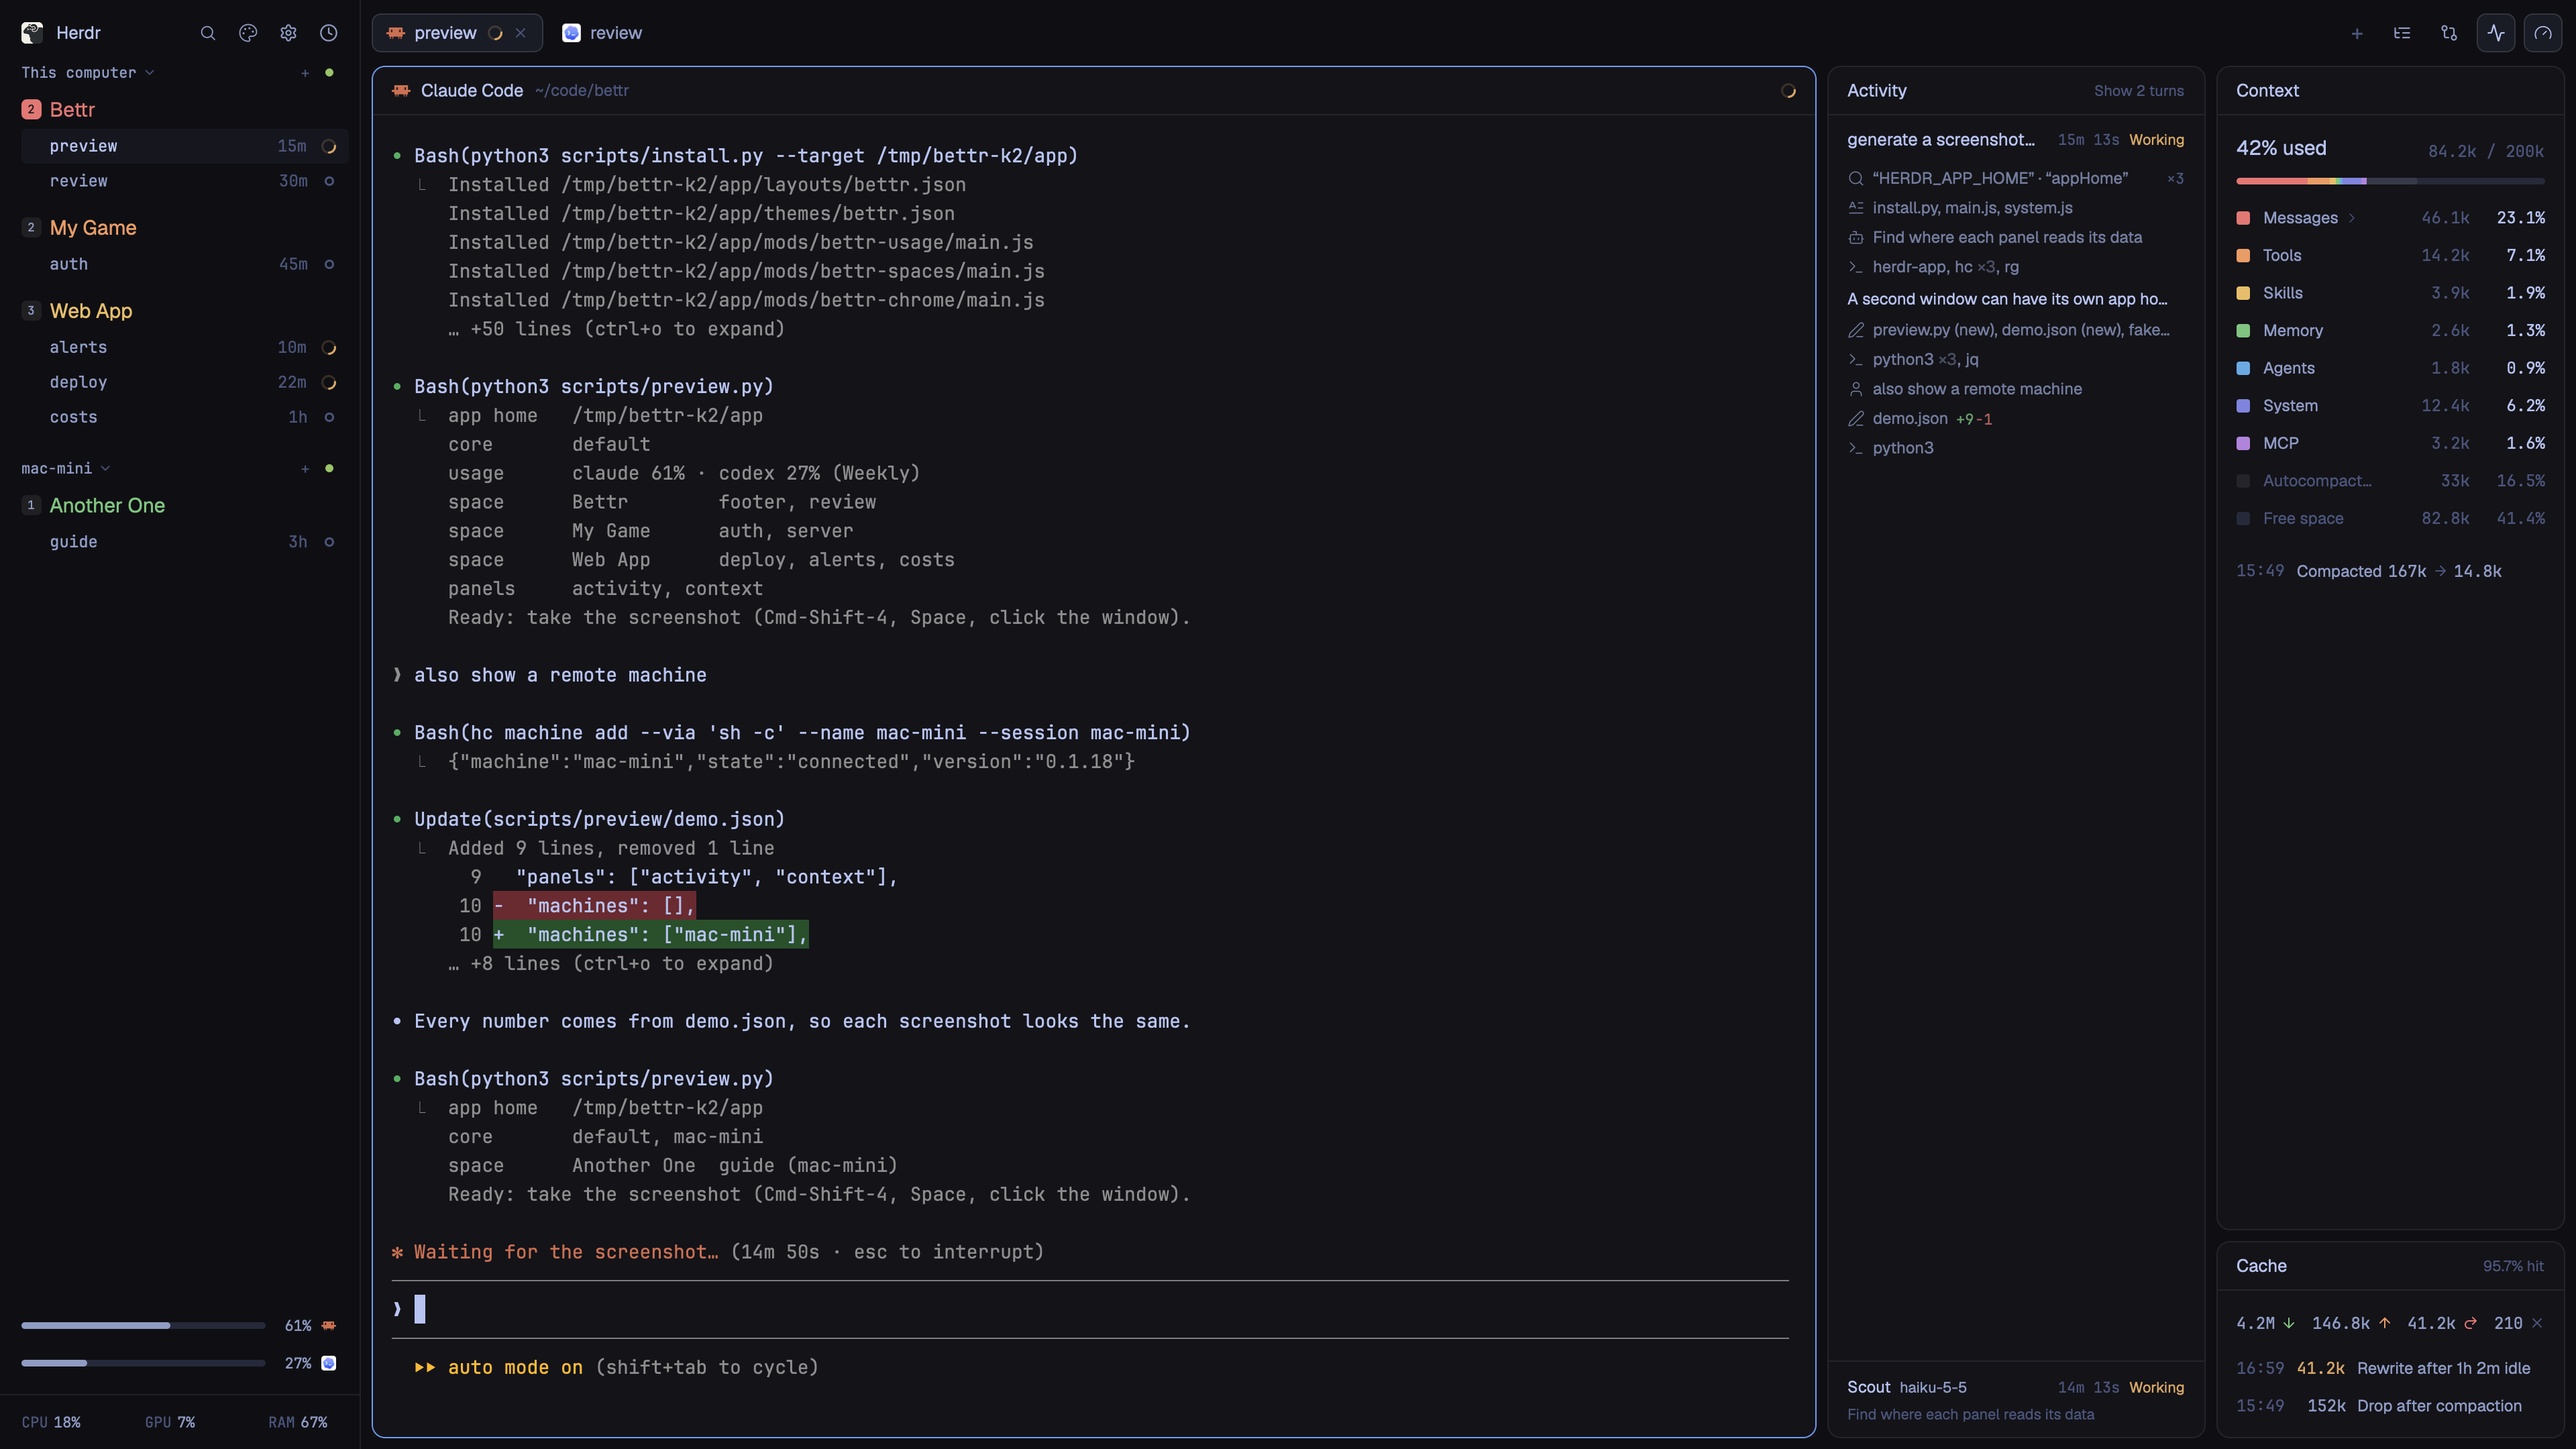
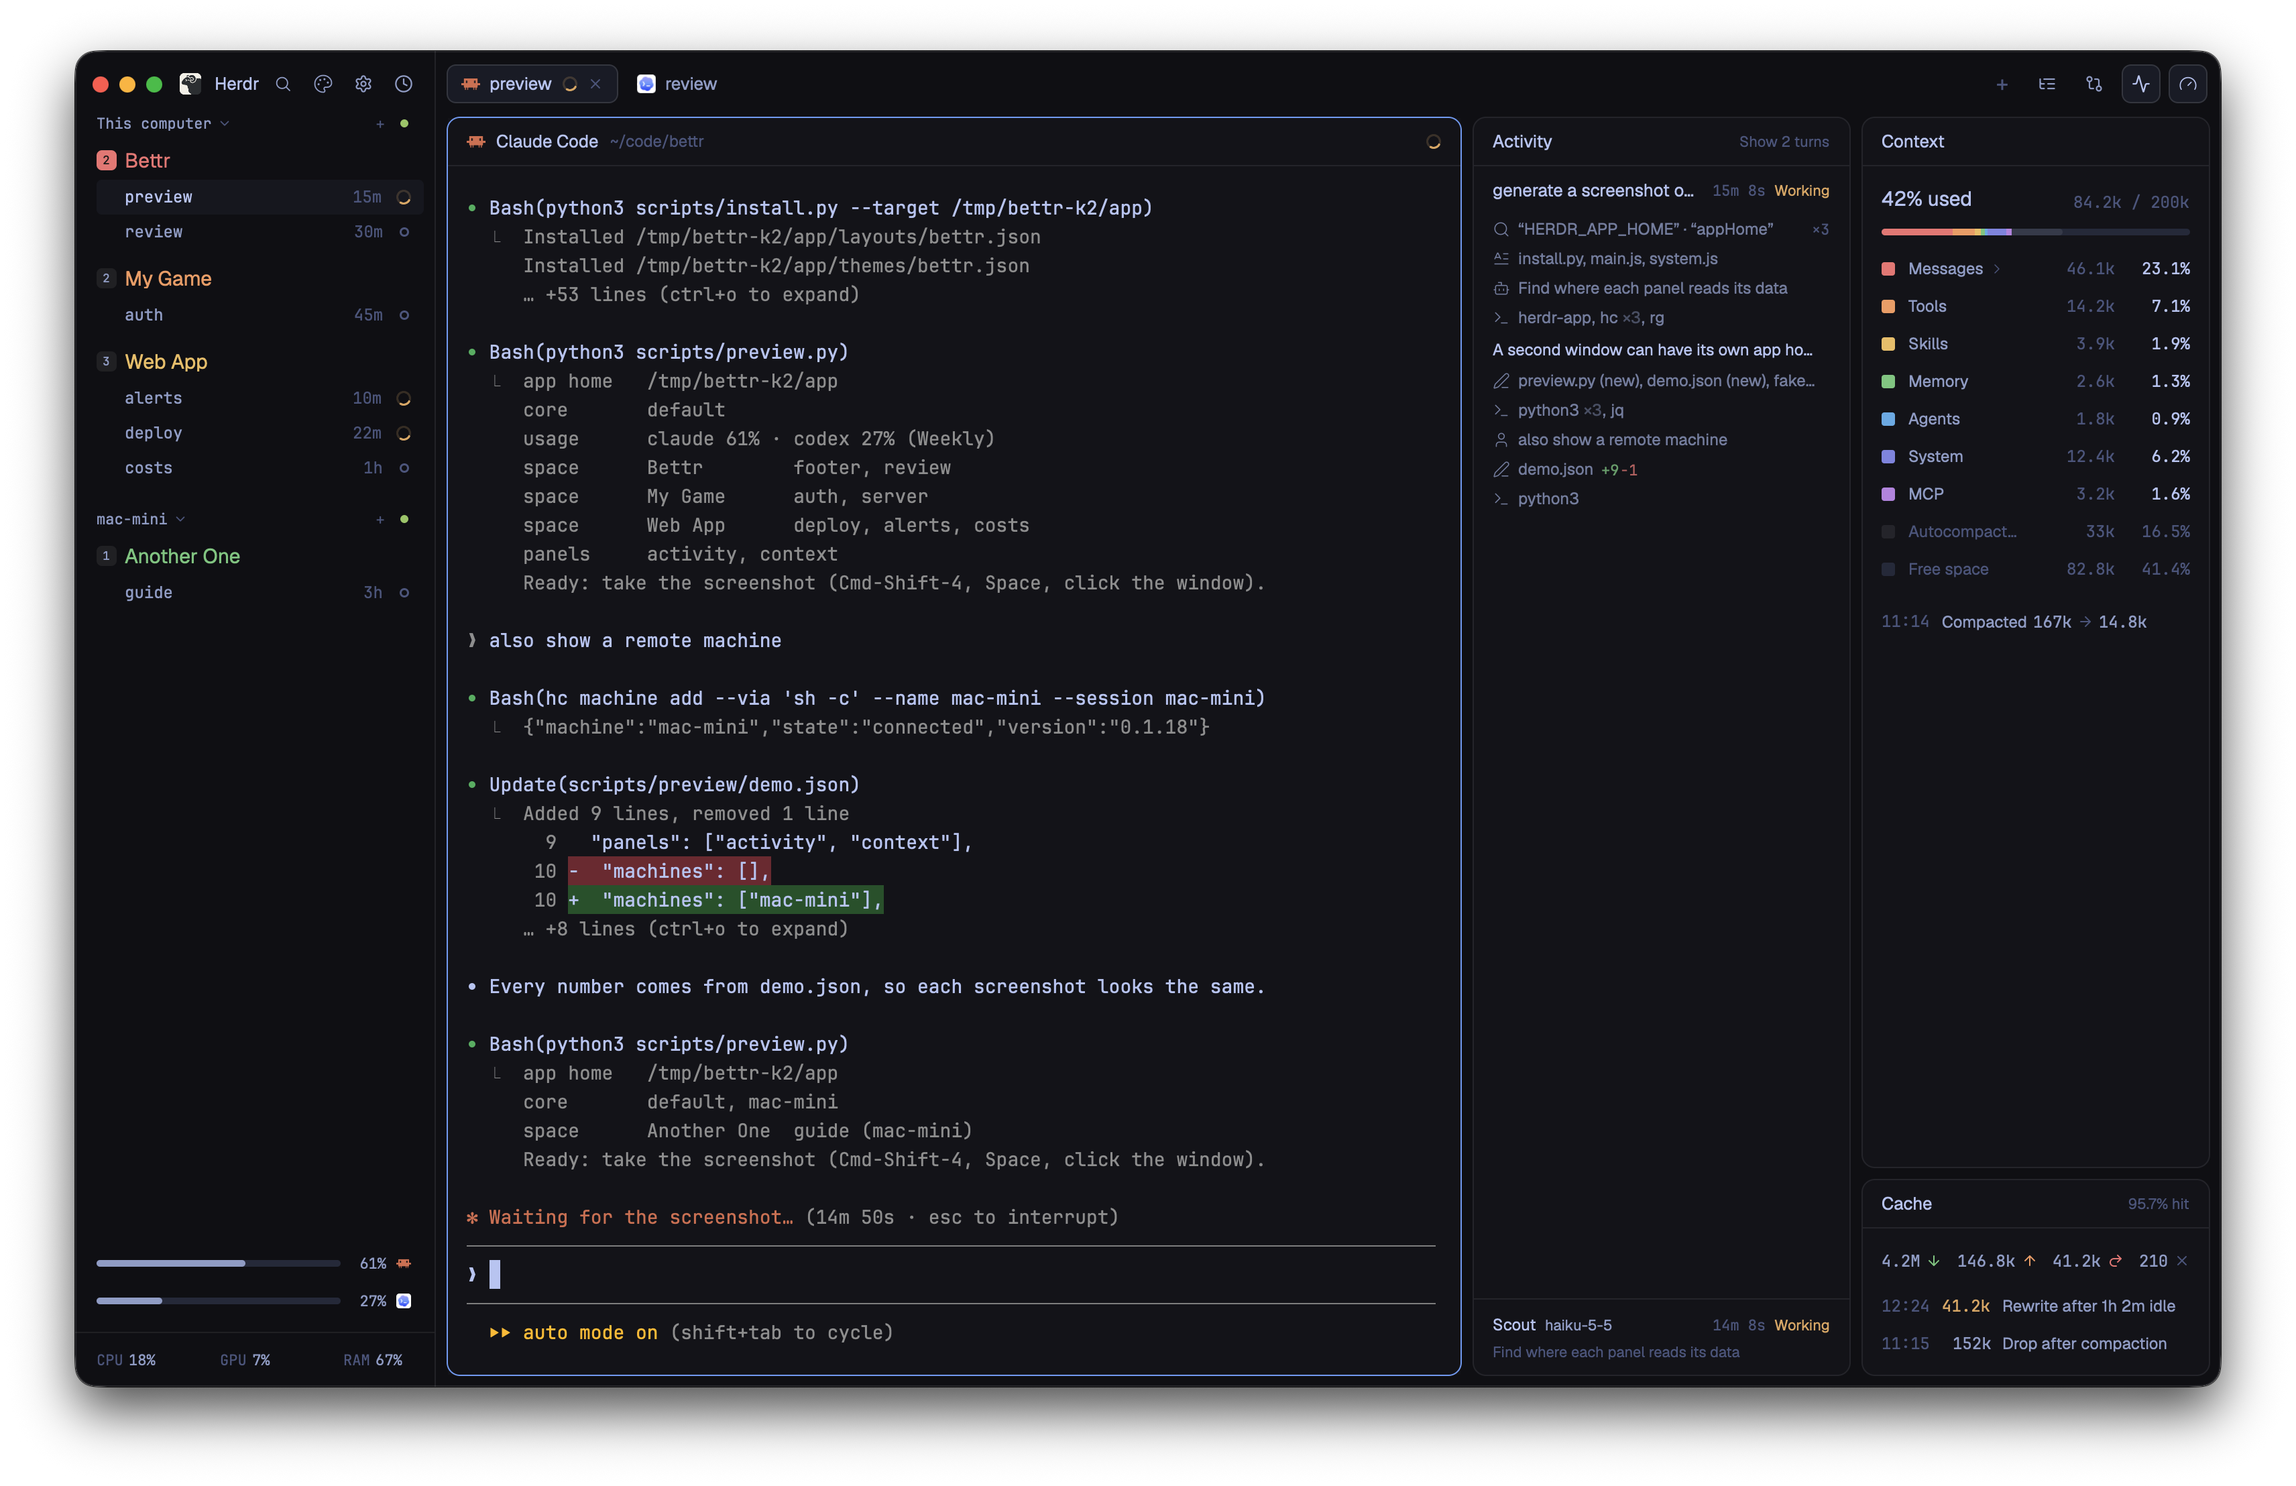
Refine preview screenshot framing
Set the demo window to a 16:10 aspect ratio and update screenshot instructions to use Option-click, preserving window controls while removing the shadow. Refresh the preview image and demo terminal output.

Changed region(s): [[0.0, 0.0, 1.0, 1.0], [0.5, 0.7755, 0.5312, 0.8065], [0.5, 0.3722, 0.5312, 0.4032]]

diff --git a/scripts/preview.py b/scripts/preview.py
@@ -1,8 +1,9 @@
 #!/usr/bin/env python3
 """Open Bettr in its own Herdr window, filled with fixed demo data, for preview.png.
 
-Take the screenshot yourself (Cmd-Shift-4, Space, click the window: it keeps the
-window buttons), then quit the window (Cmd-Q) or press Ctrl-C here.
+Take the screenshot yourself (Cmd-Shift-4, Space, Option-click the window: it keeps the
+window buttons and drops the shadow), then quit the window (Cmd-Q) or press Ctrl-C here.
+The window is 16:10, the shape of a card on herdr.dev/gallery. A card crops other shapes.
 
 Edit scripts/preview/demo.json to change what the window shows. The window has its own
 app home, HOME and herdr-core, so it never sees or changes your spaces, machines,
@@ -224,7 +225,7 @@ def main():
         preview.fill()
         preview.age_agents()
         preview.arrange()
-        print("Ready: take the screenshot (Cmd-Shift-4, Space, click the window).")
+        print("Ready: take the screenshot (Cmd-Shift-4, Space, Option-click the window).")
         print("Then quit the window (Cmd-Q) or press Ctrl-C here to clean up.")
         preview.process.wait()
     except KeyboardInterrupt:
